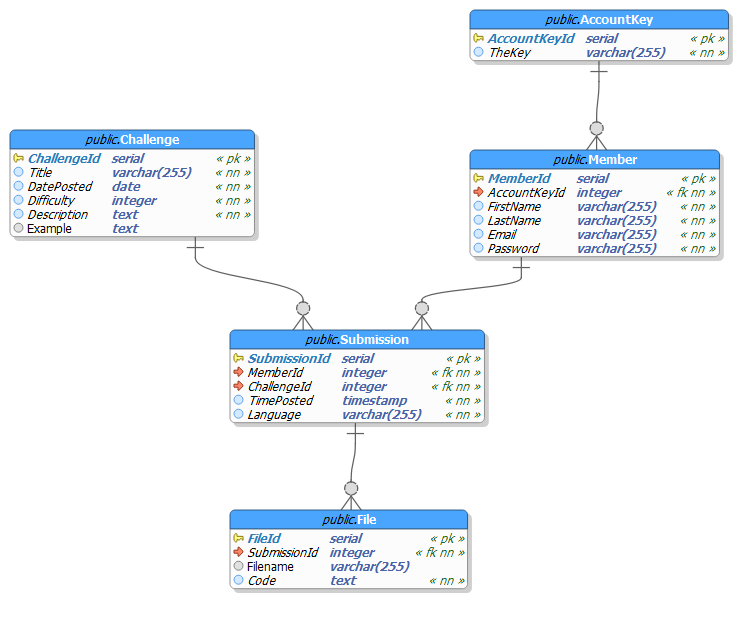
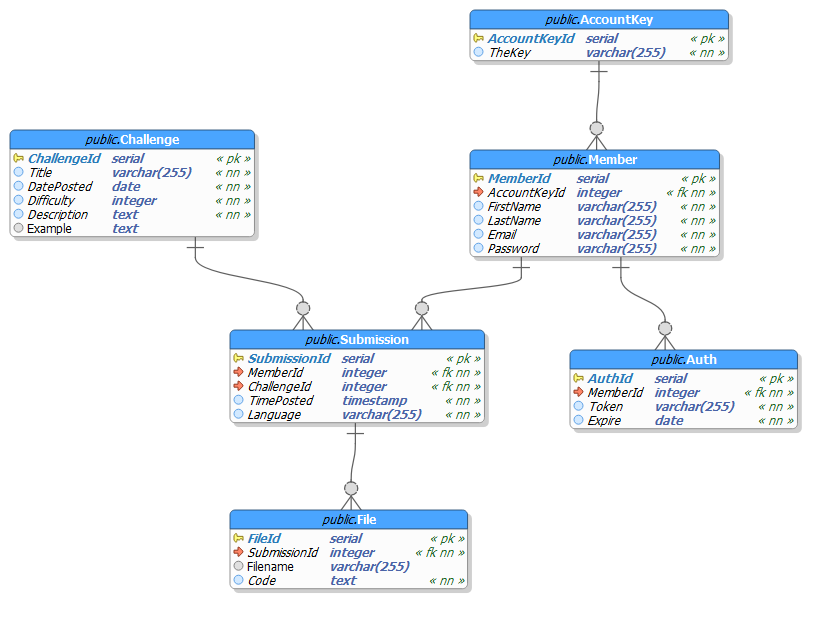
Make sign in cookies secure by using authorization tokens

diff --git a/website/global/session.php b/website/global/session.php
@@ -11,11 +11,24 @@ function startSessionFromCookie() {
         if (isset($_COOKIE["acsec"])) {
             $db = Database::getConnection();
 
-            $query = $db->prepare('SELECT Email, FirstName, LastName FROM Member WHERE MemberId = ?');
-            $query->execute( [$_COOKIE["acsec"]] );
-            $row = $query->fetch();
+            date_default_timezone_set('America/Toronto');
+            $today = date("Y-m-d");
 
-            initSession($_COOKIE["acsec"], $row['Email'], $row['FirstName'], $row['LastName']);
+            $query = $db->prepare('SELECT MemberId, Expire FROM Auth WHERE Token = ?');
+            $query->execute([ $_COOKIE["acsec"] ]);
+            $tokenExistsInDatabase = $query->rowCount() > 0;
+            $data = $query->fetch();
+            $tokenExpired = $today > $data['Expire'];
+            $memberId = $data['MemberId'];
+
+            if ($tokenExistsInDatabase && !$tokenExpired) {
+                $query = $db->prepare('SELECT Email, FirstName, LastName FROM Member WHERE MemberId = ?');
+                $query->execute([ $memberId ]);
+                $row = $query->fetch();
+
+                initSession($_COOKIE["acsec"], $row['Email'], $row['FirstName'], $row['LastName']);
+                createCookie($memberId);
+            }
         }
     }
 }
@@ -28,12 +41,39 @@ function initSession($memberId, $email, $firstName, $lastName) {
 }
 
 function createCookie($memberId) {
+    destroyCookie();
+
+    $token = createToken($memberId);
+
     // Set cookie to expire in ten years.
     $tenYears = 10 * 365 * 24 * 60 * 60;
-    setCookie("acsec", $memberId, time() + $tenYears, '/');
+    setCookie("acsec", $token, time() + $tenYears, '/');
+}
+
+function createToken($memberId) {
+    $token = bin2hex(openssl_random_pseudo_bytes(20));
+
+    date_default_timezone_set('America/Toronto');
+    $expire = date("Y-m-d", strtotime(date("Y-m-d", mktime()) . " + 365 day"));
+
+    $db = Database::getConnection();
+
+    $query = $db->prepare('INSERT INTO Auth(MemberId, Token, Expire) VALUES (?, ?, ?)');
+    $query->execute([ $memberId, $token, $expire ]);
+
+    return $token;
 }
 
 function destroyCookie() {
+    if (isset($_COOKIE['acsec'])) {
+        $db = Database::getConnection();
+
+        $query = $db->prepare('DELETE FROM Auth WHERE Token = ?');
+        $query->execute([ $_COOKIE['acsec'] ]);
+    }
+
     // This will time-out the cookie.
     setcookie("acsec", "", time() - 3600, '/');
 }
+
+// EOF
